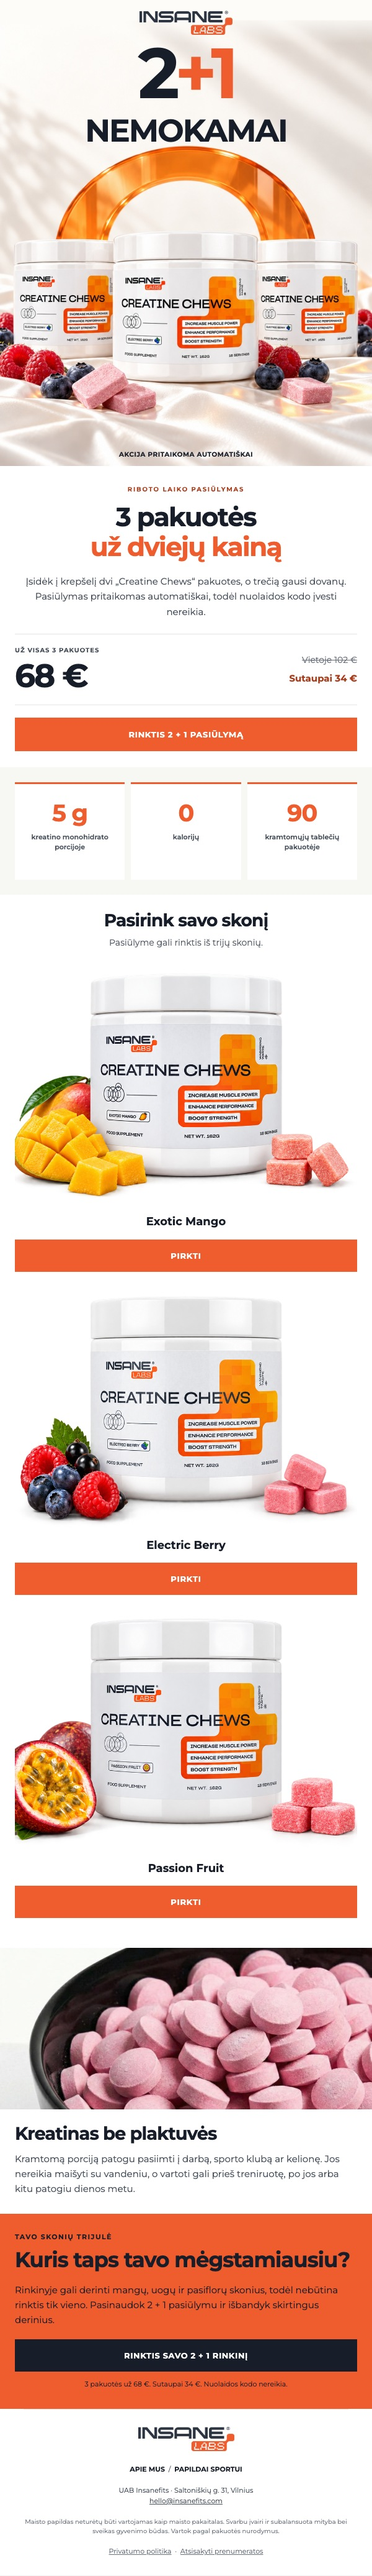
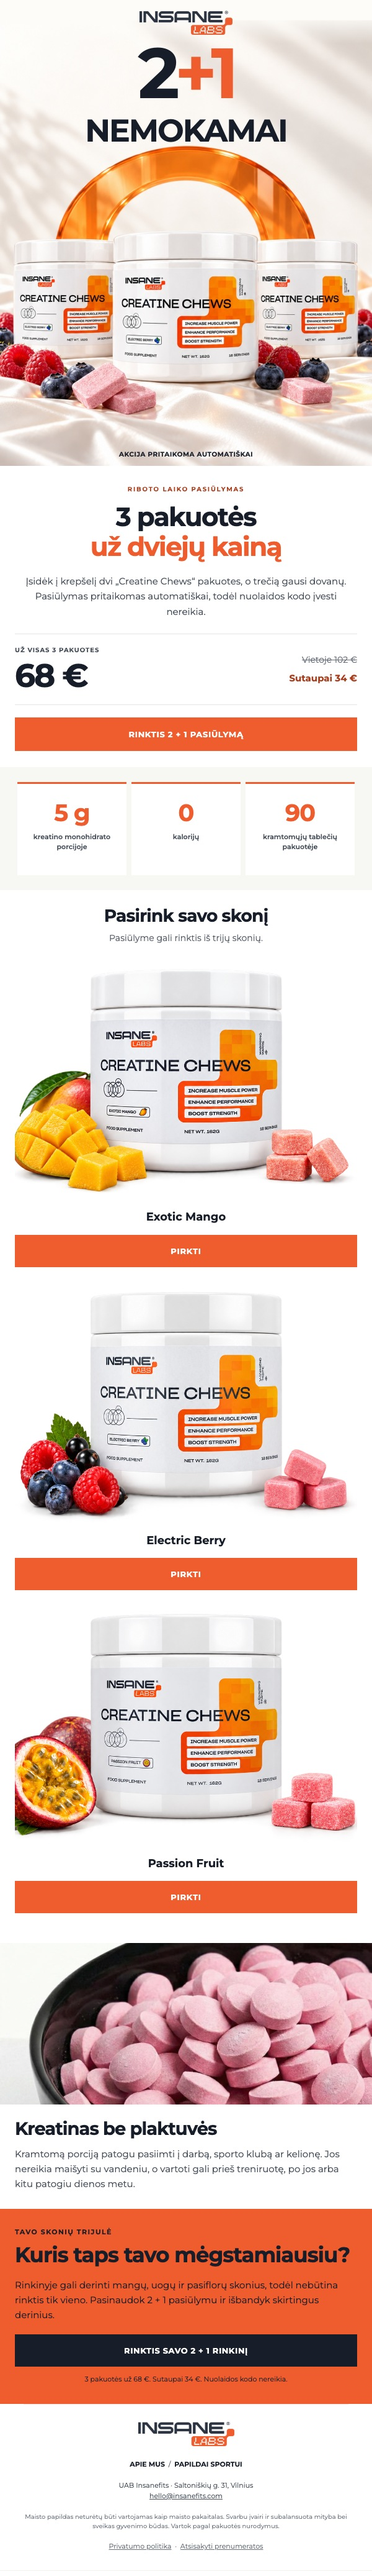
Align benefit cards and enforce no underline on product CTA buttons

diff --git a/campaigns/2026-09/chews-2-plus-1-studio/newsletter.html b/campaigns/2026-09/chews-2-plus-1-studio/newsletter.html
@@ -27,7 +27,8 @@
       .price-label{font-size:10px!important;letter-spacing:.5px!important;white-space:nowrap!important}
       .metric-col{display:block!important;width:100%!important;padding:0 0 10px!important}
       .metric-col.last{padding-bottom:0!important}
-      .metric-inner{height:auto!important;padding:14px 16px!important}
+      .metric-col>table{height:82px!important}
+      .metric-col .metric-inner{height:79px!important;padding:14px 16px!important}
       .metric-layout{display:table!important;width:100%!important}
       .metric-number{display:table-cell!important;width:80px!important;vertical-align:middle!important;text-align:left!important;font-size:34px!important}
       .metric-text{display:table-cell!important;vertical-align:middle!important;text-align:left!important;padding:0 0 0 10px!important;font-size:12px!important}
@@ -89,24 +90,24 @@
           <td class="pad" bgcolor="#f7f7f4" style="padding:24px 24px;background:#f7f7f4;">
             <table role="presentation" width="100%" cellpadding="0" cellspacing="0" style="width:100%;table-layout:fixed;">
               <tr>
-                <td class="metric-col" width="33.33%" valign="top" style="width:33.33%;padding:0 7px 0 0;">
-                  <table role="presentation" width="100%" cellpadding="0" cellspacing="0" bgcolor="#ffffff" style="width:100%;background:#ffffff;border-top:3px solid #ef5c2e;">
-                    <tr><td class="metric-inner" align="center" height="110" style="height:110px;padding:24px 8px 20px;vertical-align:top;">
-                      <div class="metric-layout"><div class="metric-number" style="font-size:38px;line-height:1.2;letter-spacing:-1px;font-weight:700;color:#ef5c2e;">5 g</div><div class="metric-text" style="padding-top:7px;font-size:11px;line-height:1.5;font-weight:600;color:#48505c;">kreatino monohidrato<br>porcijoje</div></div>
+                <td class="metric-col" width="33.33%" valign="top" style="width:33.33%;padding:0 4px;vertical-align:top!important;">
+                  <table role="presentation" width="100%" cellpadding="0" cellspacing="0" bgcolor="#ffffff" height="150" style="width:100%;height:150px;table-layout:fixed;background:#ffffff;border-top:3px solid #ef5c2e;">
+                    <tr><td class="metric-inner" align="center" valign="top" height="147" style="height:147px;box-sizing:border-box;padding:24px 8px 20px;vertical-align:top!important;">
+                      <div class="metric-layout"><div class="metric-number" style="height:46px!important;margin:0!important;font-size:38px;line-height:46px!important;letter-spacing:-1px;font-weight:700;color:#ef5c2e;">5 g</div><div class="metric-text" style="height:40px!important;box-sizing:border-box;margin:0!important;padding-top:7px;font-size:11px;line-height:16px!important;font-weight:600;color:#48505c;">kreatino monohidrato<br>porcijoje</div></div>
                     </td></tr>
                   </table>
                 </td>
-                <td class="metric-col" width="33.33%" valign="top" style="width:33.33%;padding:0 3px;">
-                  <table role="presentation" width="100%" cellpadding="0" cellspacing="0" bgcolor="#ffffff" style="width:100%;background:#ffffff;border-top:3px solid #ef5c2e;">
-                    <tr><td class="metric-inner" align="center" height="110" style="height:110px;padding:24px 8px 20px;vertical-align:top;">
-                      <div class="metric-layout"><div class="metric-number" style="font-size:38px;line-height:1.2;letter-spacing:-1px;font-weight:700;color:#ef5c2e;">0</div><div class="metric-text" style="padding-top:7px;font-size:11px;line-height:1.5;font-weight:600;color:#48505c;">kalorijų</div></div>
+                <td class="metric-col" width="33.33%" valign="top" style="width:33.33%;padding:0 4px;vertical-align:top!important;">
+                  <table role="presentation" width="100%" cellpadding="0" cellspacing="0" bgcolor="#ffffff" height="150" style="width:100%;height:150px;table-layout:fixed;background:#ffffff;border-top:3px solid #ef5c2e;">
+                    <tr><td class="metric-inner" align="center" valign="top" height="147" style="height:147px;box-sizing:border-box;padding:24px 8px 20px;vertical-align:top!important;">
+                      <div class="metric-layout"><div class="metric-number" style="height:46px!important;margin:0!important;font-size:38px;line-height:46px!important;letter-spacing:-1px;font-weight:700;color:#ef5c2e;">0</div><div class="metric-text" style="height:40px!important;box-sizing:border-box;margin:0!important;padding-top:7px;font-size:11px;line-height:16px!important;font-weight:600;color:#48505c;">kalorijų</div></div>
                     </td></tr>
                   </table>
                 </td>
-                <td class="metric-col last" width="33.33%" valign="top" style="width:33.33%;padding:0 0 0 7px;">
-                  <table role="presentation" width="100%" cellpadding="0" cellspacing="0" bgcolor="#ffffff" style="width:100%;background:#ffffff;border-top:3px solid #ef5c2e;">
-                    <tr><td class="metric-inner" align="center" height="110" style="height:110px;padding:24px 8px 20px;vertical-align:top;">
-                      <div class="metric-layout"><div class="metric-number" style="font-size:38px;line-height:1.2;letter-spacing:-1px;font-weight:700;color:#ef5c2e;">90</div><div class="metric-text" style="padding-top:7px;font-size:11px;line-height:1.5;font-weight:600;color:#48505c;">kramtomųjų tablečių<br>pakuotėje</div></div>
+                <td class="metric-col last" width="33.33%" valign="top" style="width:33.33%;padding:0 4px;vertical-align:top!important;">
+                  <table role="presentation" width="100%" cellpadding="0" cellspacing="0" bgcolor="#ffffff" height="150" style="width:100%;height:150px;table-layout:fixed;background:#ffffff;border-top:3px solid #ef5c2e;">
+                    <tr><td class="metric-inner" align="center" valign="top" height="147" style="height:147px;box-sizing:border-box;padding:24px 8px 20px;vertical-align:top!important;">
+                      <div class="metric-layout"><div class="metric-number" style="height:46px!important;margin:0!important;font-size:38px;line-height:46px!important;letter-spacing:-1px;font-weight:700;color:#ef5c2e;">90</div><div class="metric-text" style="height:40px!important;box-sizing:border-box;margin:0!important;padding-top:7px;font-size:11px;line-height:16px!important;font-weight:600;color:#48505c;">kramtomųjų tablečių<br>pakuotėje</div></div>
                     </td></tr>
                   </table>
                 </td>
@@ -125,7 +126,7 @@
                   <table role="presentation" width="100%" cellpadding="0" cellspacing="0" bgcolor="#ffffff" style="background:#ffffff;">
                     <tr><td align="center"><a href="https://insanefits.com/products/creatine-chews?variant=54635975999834" target="_blank"><img class="flavor-photo" src="https://cdn.jsdelivr.net/gh/elaiskai/insanefits-email-assets@main/campaigns/2026-09/chews-2-plus-1-studio/assets/generated/flavor-exotic-mango-transparent-tight.png" width="550" height="391" alt="Creatine Chews Exotic Mango skonio pakuotė su mangais" style="display:block;width:100%;max-width:100%;height:auto;"></a></td></tr>
                     <tr><td align="center" style="padding:16px 12px;"><p style="margin:0;font-size:18px;line-height:1.35;font-weight:700;color:#171d29;">Exotic Mango</p></td></tr>
-                    <tr><td align="center" bgcolor="#ef5c2e" style="background:#ef5c2e;mso-padding-alt:12px 8px;"><a href="https://insanefits.com/products/creatine-chews?variant=54635975999834" target="_blank" style="display:block;padding:17px 12px;font-size:13px;line-height:18px;letter-spacing:.8px;font-weight:700;color:#ffffff;">PIRKTI</a></td></tr>
+                    <tr><td align="center" bgcolor="#ef5c2e" style="background:#ef5c2e;mso-padding-alt:12px 8px;"><a href="https://insanefits.com/products/creatine-chews?variant=54635975999834" target="_blank" style="display:block;padding:17px 12px;font-size:13px;line-height:18px;letter-spacing:.8px;font-weight:700;color:#ffffff;text-decoration:none!important;border-bottom:0!important;">PIRKTI</a></td></tr>
                   </table>
                 </td>
               </tr>
@@ -134,7 +135,7 @@
                   <table role="presentation" width="100%" cellpadding="0" cellspacing="0" bgcolor="#ffffff" style="background:#ffffff;">
                     <tr><td align="center"><a href="https://insanefits.com/products/creatine-chews?variant=54635976032602" target="_blank"><img class="flavor-photo" src="https://cdn.jsdelivr.net/gh/elaiskai/insanefits-email-assets@main/campaigns/2026-09/chews-2-plus-1-studio/assets/generated/flavor-electric-berry-transparent-tight.png" width="550" height="391" alt="Creatine Chews Electric Berry skonio pakuotė su uogomis" style="display:block;width:100%;max-width:100%;height:auto;"></a></td></tr>
                     <tr><td align="center" style="padding:16px 12px;"><p style="margin:0;font-size:18px;line-height:1.35;font-weight:700;color:#171d29;">Electric Berry</p></td></tr>
-                    <tr><td align="center" bgcolor="#ef5c2e" style="background:#ef5c2e;mso-padding-alt:12px 8px;"><a href="https://insanefits.com/products/creatine-chews?variant=54635976032602" target="_blank" style="display:block;padding:17px 12px;font-size:13px;line-height:18px;letter-spacing:.8px;font-weight:700;color:#ffffff;">PIRKTI</a></td></tr>
+                    <tr><td align="center" bgcolor="#ef5c2e" style="background:#ef5c2e;mso-padding-alt:12px 8px;"><a href="https://insanefits.com/products/creatine-chews?variant=54635976032602" target="_blank" style="display:block;padding:17px 12px;font-size:13px;line-height:18px;letter-spacing:.8px;font-weight:700;color:#ffffff;text-decoration:none!important;border-bottom:0!important;">PIRKTI</a></td></tr>
                   </table>
                 </td>
               </tr>
@@ -143,7 +144,7 @@
                   <table role="presentation" width="100%" cellpadding="0" cellspacing="0" bgcolor="#ffffff" style="background:#ffffff;">
                     <tr><td align="center"><a href="https://insanefits.com/products/creatine-chews?variant=54635976065370" target="_blank"><img class="flavor-photo" src="https://cdn.jsdelivr.net/gh/elaiskai/insanefits-email-assets@main/campaigns/2026-09/chews-2-plus-1-studio/assets/generated/flavor-passion-fruit-transparent-tight.png" width="550" height="391" alt="Creatine Chews Passion Fruit skonio pakuotė su pasiflora" style="display:block;width:100%;max-width:100%;height:auto;"></a></td></tr>
                     <tr><td align="center" style="padding:16px 12px;"><p style="margin:0;font-size:18px;line-height:1.35;font-weight:700;color:#171d29;">Passion Fruit</p></td></tr>
-                    <tr><td align="center" bgcolor="#ef5c2e" style="background:#ef5c2e;mso-padding-alt:12px 8px;"><a href="https://insanefits.com/products/creatine-chews?variant=54635976065370" target="_blank" style="display:block;padding:17px 12px;font-size:13px;line-height:18px;letter-spacing:.8px;font-weight:700;color:#ffffff;">PIRKTI</a></td></tr>
+                    <tr><td align="center" bgcolor="#ef5c2e" style="background:#ef5c2e;mso-padding-alt:12px 8px;"><a href="https://insanefits.com/products/creatine-chews?variant=54635976065370" target="_blank" style="display:block;padding:17px 12px;font-size:13px;line-height:18px;letter-spacing:.8px;font-weight:700;color:#ffffff;text-decoration:none!important;border-bottom:0!important;">PIRKTI</a></td></tr>
                   </table>
                 </td>
               </tr>
